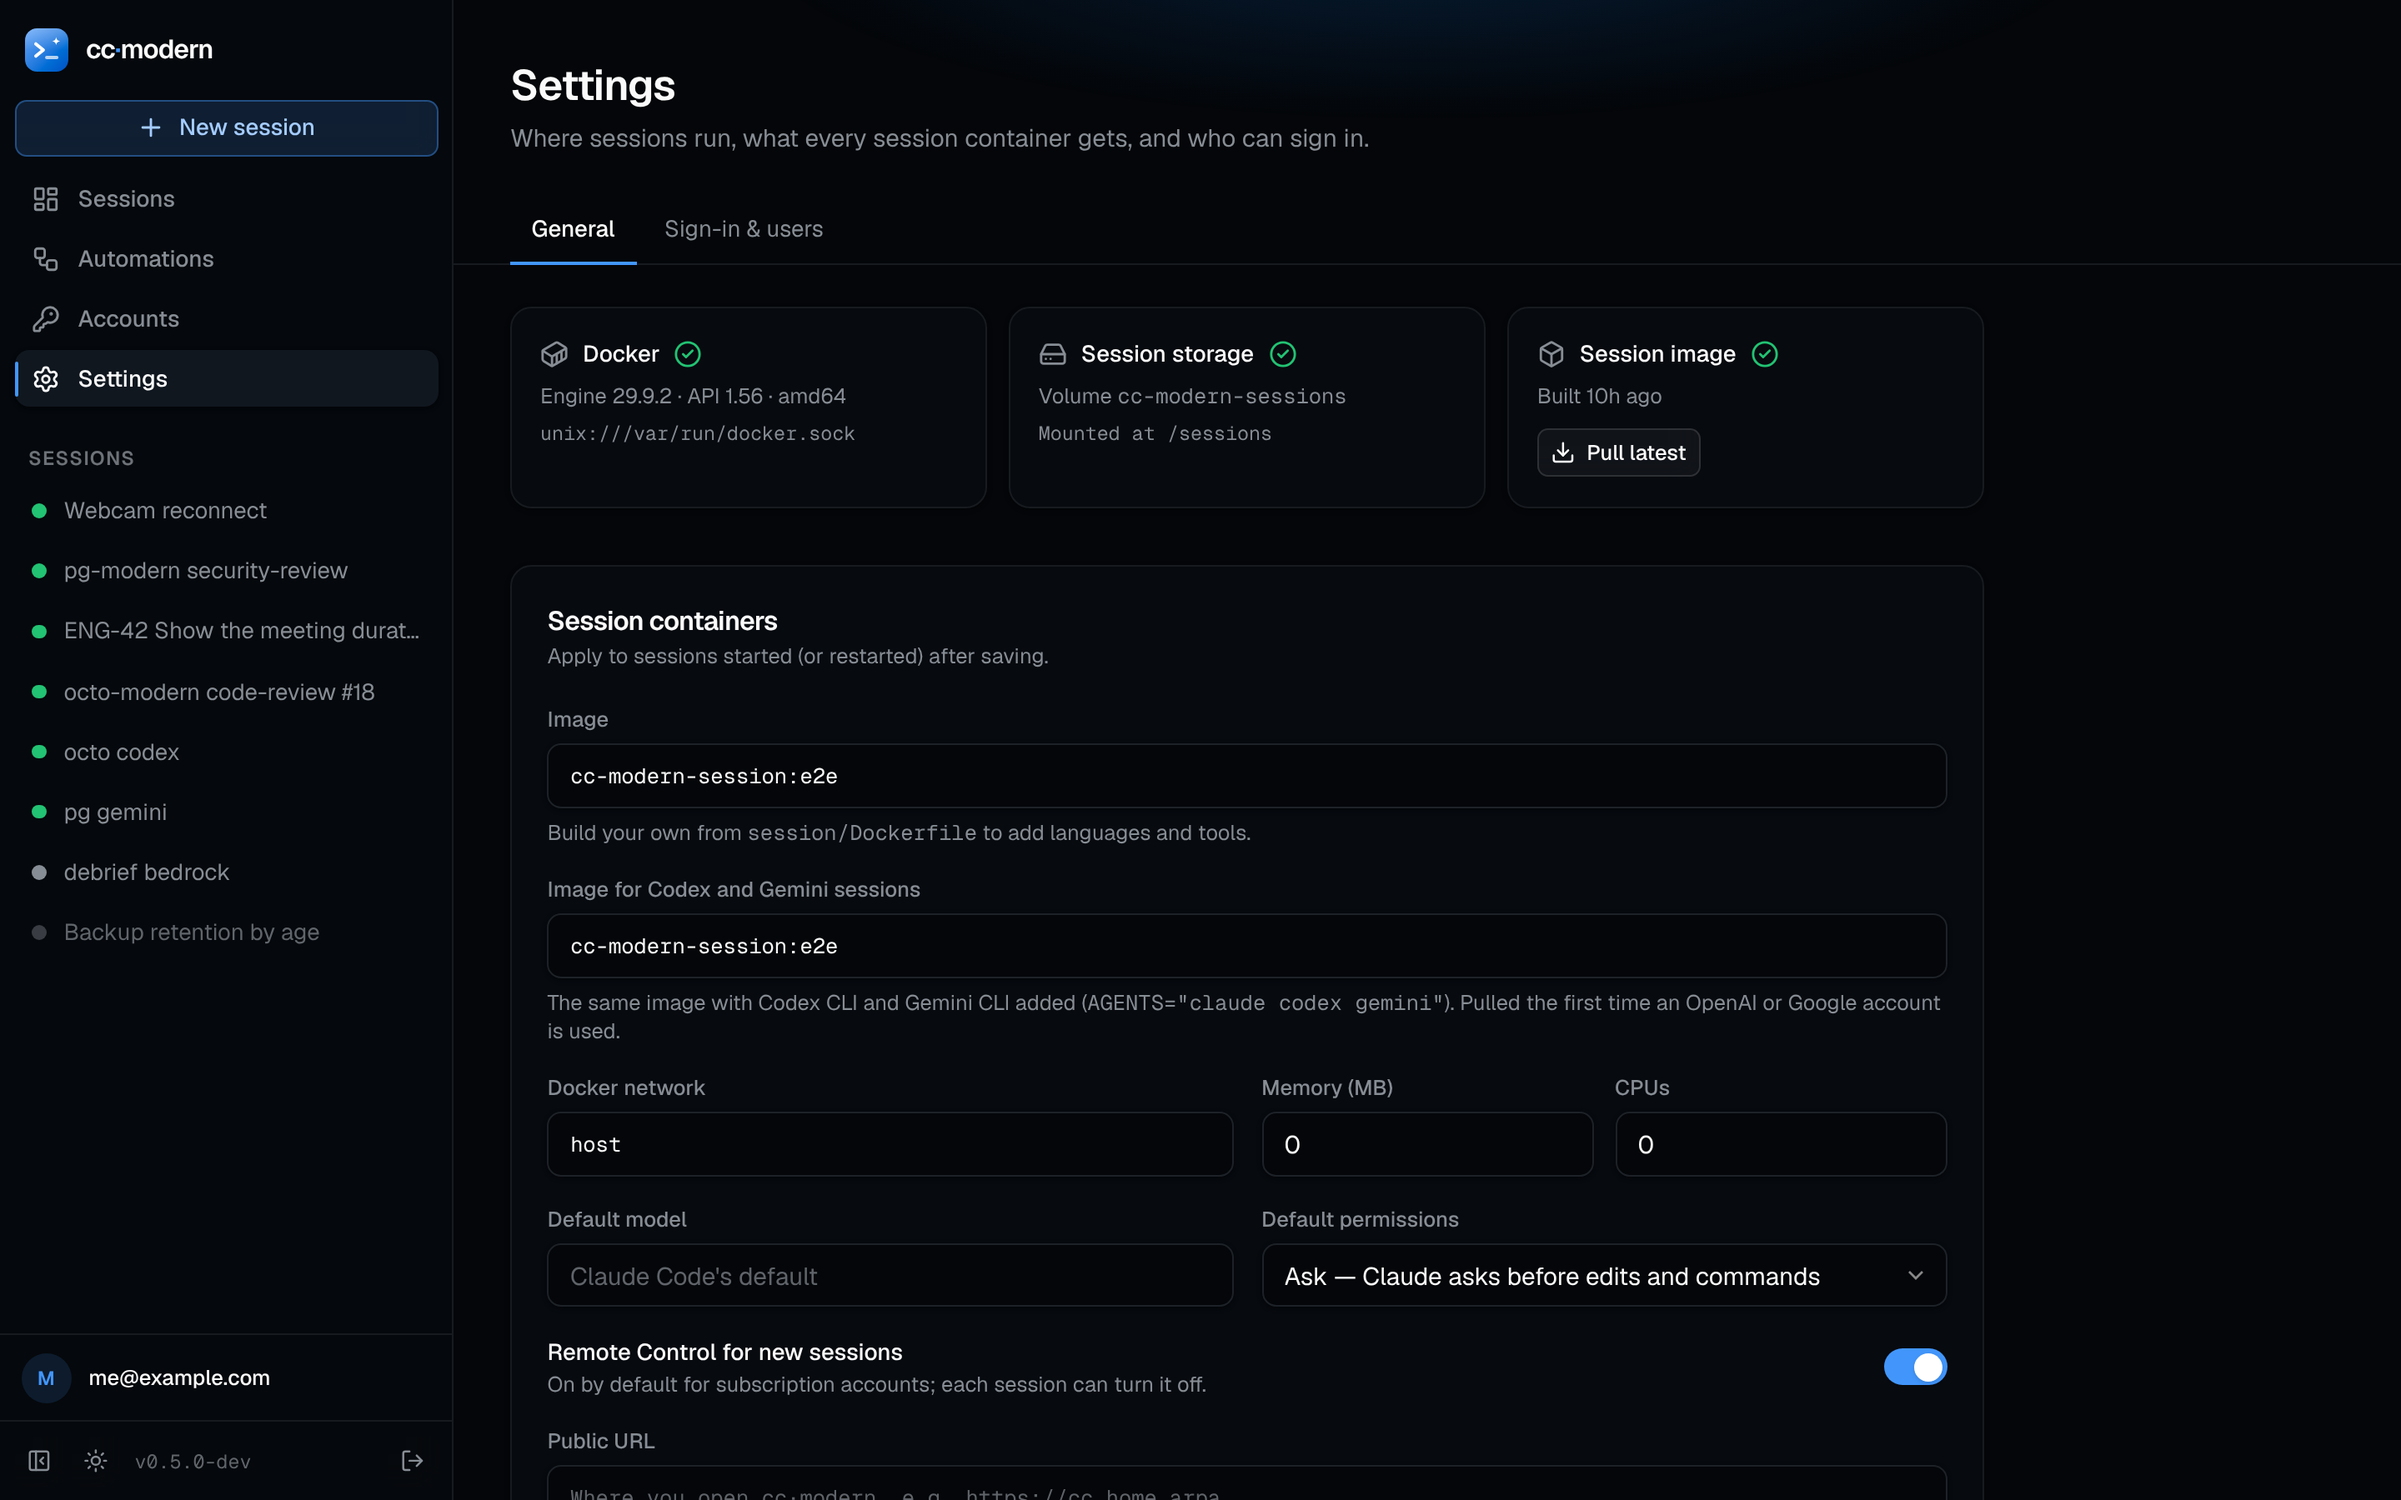
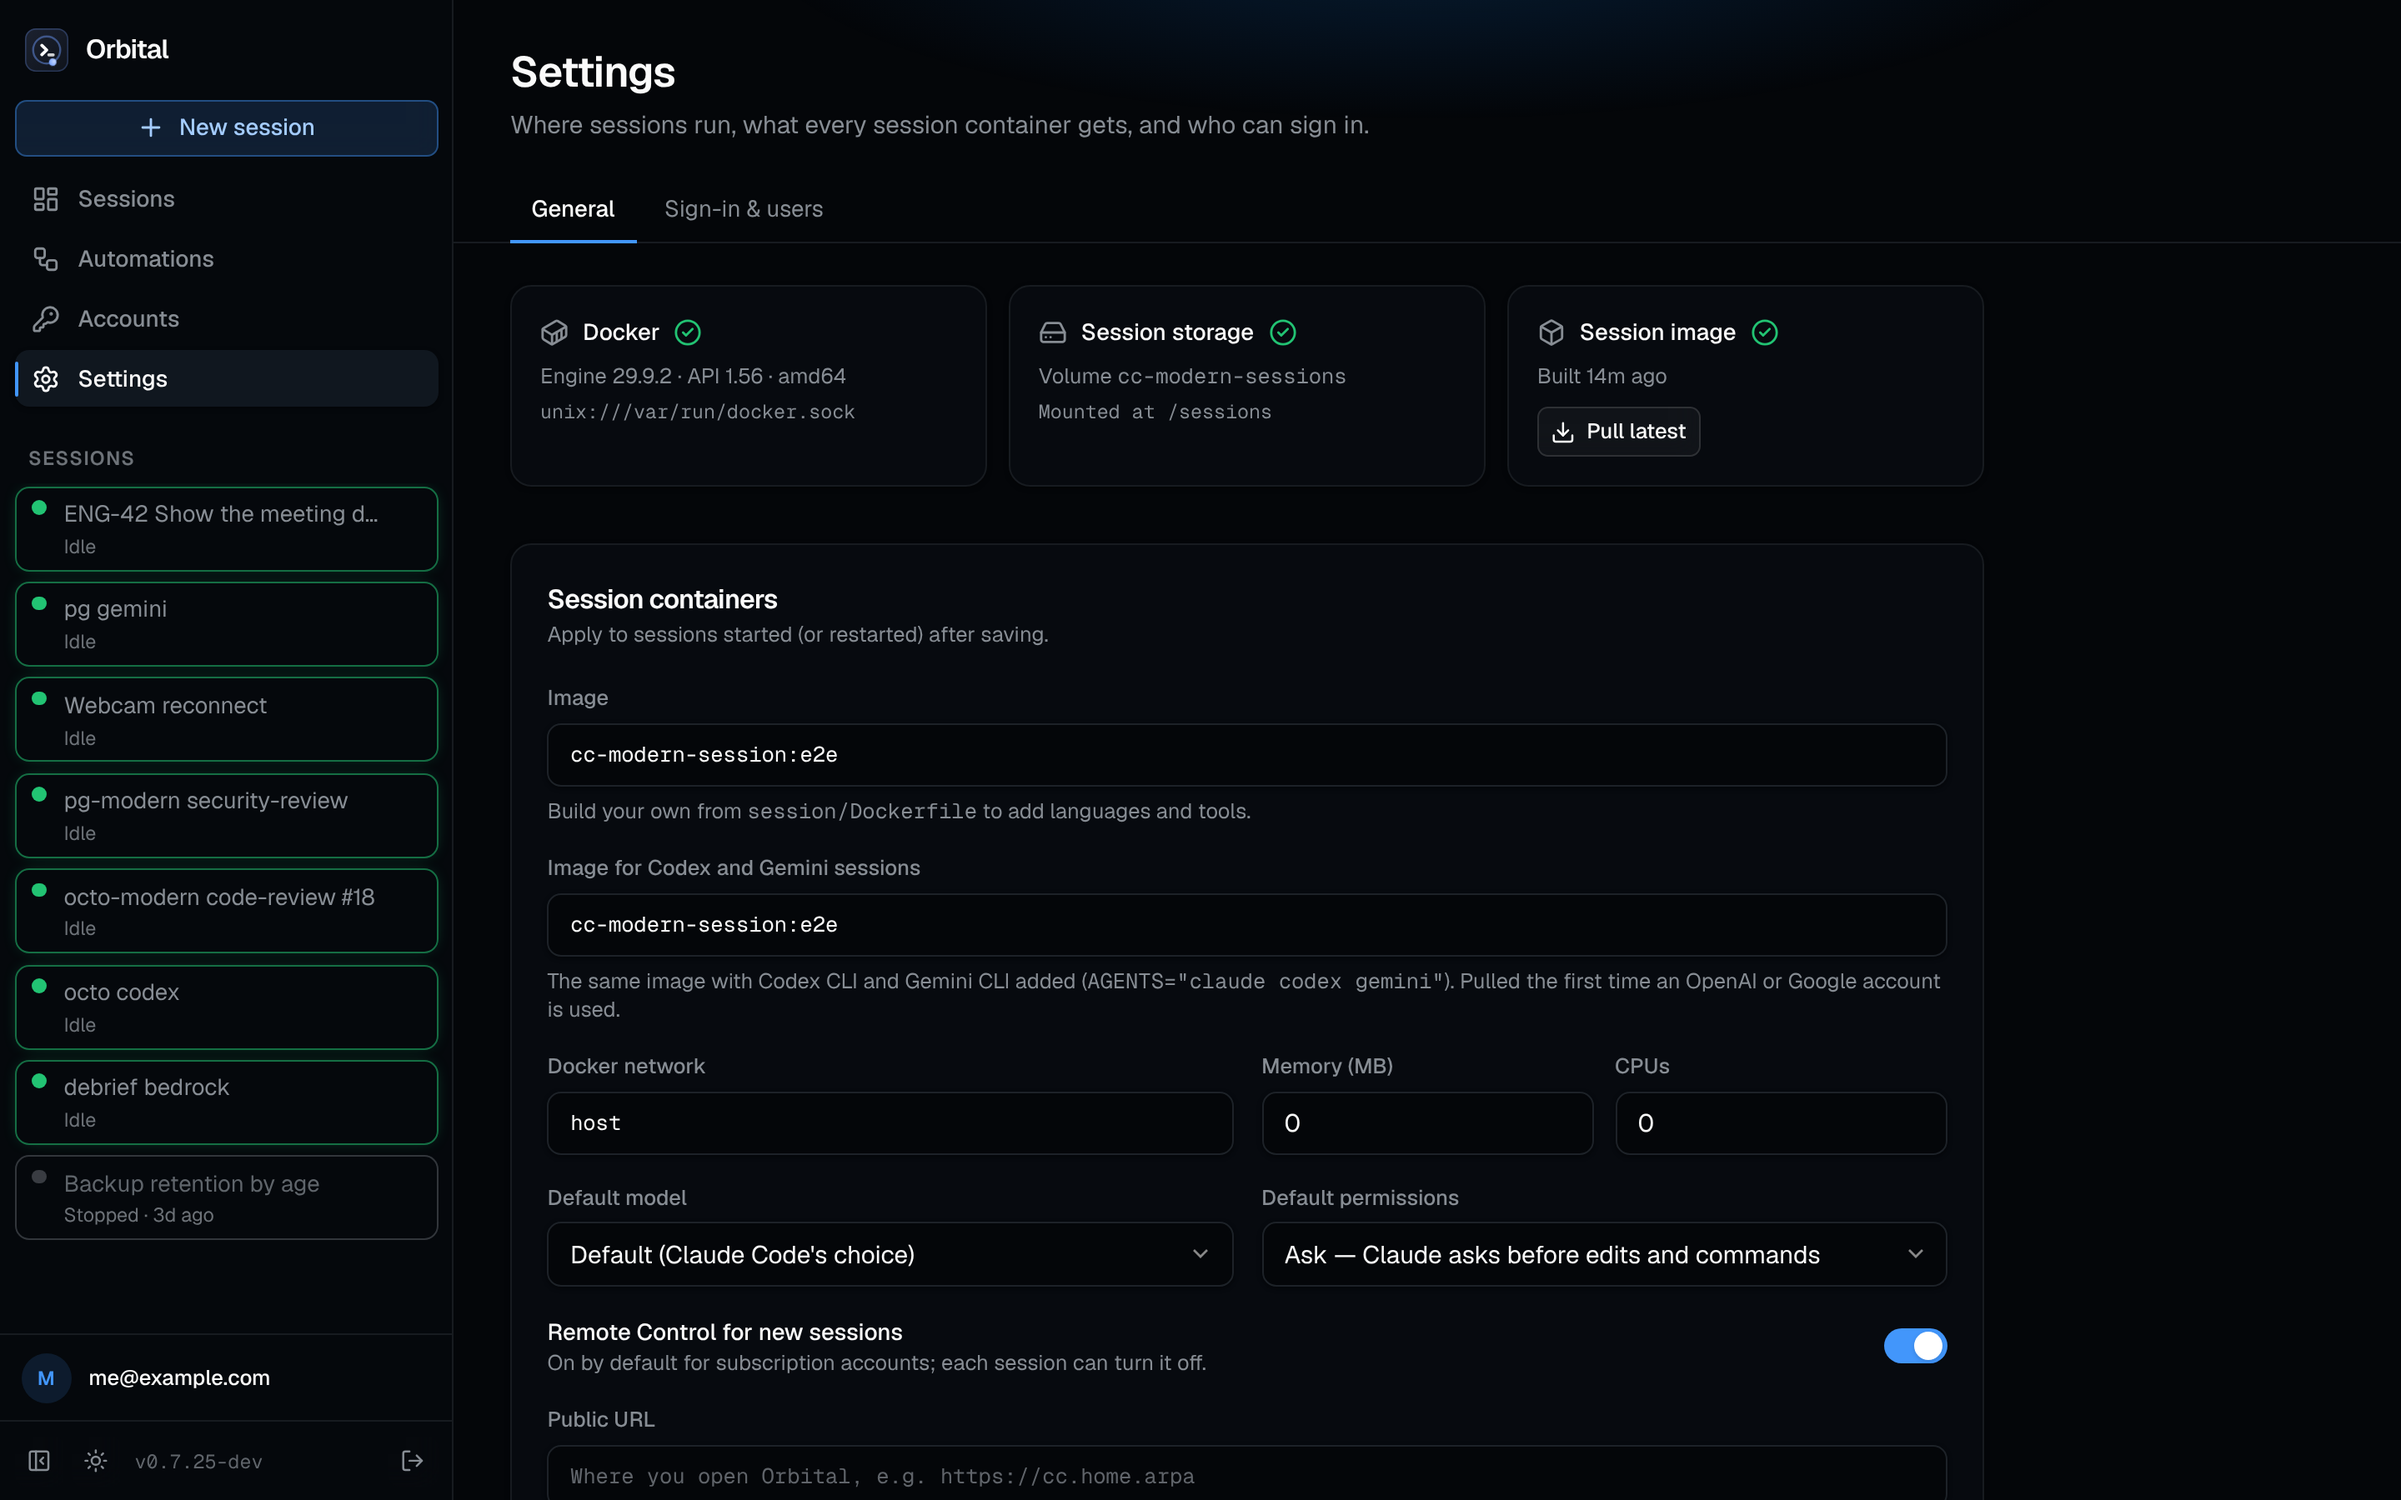
Screenshots of Orbital, and the README on repo-less sessions and token choice
Every screenshot retaken from the current build with the demo data (the
old ones still said cc·modern and v0.5.0), plus New session without a
repo. The README mentions starting without a repo and how New session
picks the GitHub token.

Claude-Session: https://claude.ai/code/session_01C997C8JX2S46x9hvY6hSte

diff --git a/README.md b/README.md
@@ -18,7 +18,7 @@
 
 ## Features
 
-- **One container per session**: Orbital clones the repo (optionally onto a new branch) into a fresh container named `claude-<repo>` (`claude-<repo>-2`, `-3`… for more sessions on the same repo) and starts Claude Code there, with the name you gave it. All sessions share one image; repos, home folders and conversations live in a volume, so containers are disposable and nothing is rebuilt per project.
+- **One container per session**: Orbital clones the repo (optionally onto a new branch) into a fresh container named `claude-<repo>` (`claude-<repo>-2`, `-3`… for more sessions on the same repo) and starts Claude Code there, with the name you gave it. For a new project, start without a repo: the session gets an empty folder with git ready, and the agent can put it on GitHub with `gh repo create`. All sessions share one image; repos, home folders and conversations live in a volume, so containers are disposable and nothing is rebuilt per project.
 - **Terminals in the browser**: open any session as a full terminal (xterm.js over a WebSocket). Claude runs inside tmux, so closing the tab doesn't stop it, and several browsers can watch the same session. A **Shell** tab opens a second terminal in the same container. You type straight into the terminal, and scroll it with the wheel or a finger; on phones, a key bar adds Esc, Tab, ⇧Tab, arrows, Ctrl+C, End and Enter. When the agent asks something (a permission prompt, a question with options), the options show above the terminal as buttons. Links on screen, even long sign-in links that wrap over many lines, show above the terminal with Open and Copy buttons.
 - **Live overview**: every session shows whether Claude is *working*, *needs you* (a permission prompt or question), is *idle*, or has exited, plus the last prompt and reply, the task list, the tool it's running, git changes and the last lines of its screen. Sessions that need you sort to the top and get a quick-reply box. **Summarize** asks a small model for a three-sentence summary, using the session's own Claude account.
 - **Stop, resume, relaunch**: stopping removes the container and keeps everything else. Starting again picks up the newest conversation (`claude --continue`); you can also resume any earlier conversation or start a fresh one, and restart Claude inside a running session.
@@ -28,7 +28,7 @@
 - **Remote Control**: sessions on a Claude subscription start with `--remote-control "<name>"`, so they also show up at claude.ai/code and in the Claude app, under the session's name. The overview links straight to them.
 - **Model accounts**: sign in with a Claude Pro or Max plan in a terminal right in the browser (`claude auth login`), or add a long-lived token or an API key; run Claude on **Amazon Bedrock**, **Google Vertex AI**, **Microsoft Foundry** or an **LLM gateway** (LiteLLM, Portkey…); or use **OpenAI** (ChatGPT plan or API key) through Codex CLI and **Google** (Google account or Gemini API key) through Gemini CLI, in the same containers and terminals. Sessions of one account share its login, settings and memory, like terminals on one machine.
 - **Profiles**: say which repos go to which model: `acme/*` on Bedrock with Opus, `me/side-*` on Codex, everything else on your subscription. New sessions pick the matching profile's account, model and permissions (you can still change them), and Linear rules can use it too.
-- **GitHub accounts and orgs**: add personal access tokens, as many as you like and each with a name ("Acme org", "Read-only"), or sign in with GitHub through your own OAuth app. Rename a token or swap in a new one when it expires, without touching the sessions and automations that use it. Browse every repo the token can see across your account and organizations, pick a branch. Sessions get the token for `git push` and `gh pr create`, and commit under your GitHub noreply address.
+- **GitHub accounts and orgs**: add personal access tokens, as many as you like and each with a name ("Acme org", "Read-only"), or sign in with GitHub through your own OAuth app. Rename a token or swap in a new one when it expires, without touching the sessions and automations that use it. Browse every repo your tokens can see across your account and organizations, and pick a branch; New session uses the token that can open the repo (the stricter one when several can, which you can change). Sessions get the token for `git push` and `gh pr create`, and commit under your GitHub noreply address.
 - **Sign-in your way**: a local admin account, plus single sign-on with any OpenID Connect provider (Authentik, Authelia, Keycloak, Pocket ID…), or your reverse proxy's forward auth, with email and group rules and admin/member roles. Or turn sign-in off behind a proxy that already does it. All set in the UI.
 - **Encrypted storage**: tokens and keys are sealed with AES-256-GCM and never sent back to the browser.
 - **Command palette**: `⌘K` (`Ctrl+K`) jumps to any session or page.
@@ -85,7 +85,7 @@ Open `http://<your-host>:3050` and create the local admin account. Everything el
 
 1. **Accounts → Models → Add account.** Pick *Claude subscription* and sign in in the terminal that opens: open the link, approve, paste the code back. (Or a token, an API key, a cloud provider, OpenAI or Google.)
 2. **Accounts → GitHub → Add a token**, for private repos and pushing. Public repos work without one.
-3. **New session**: pick the repo, optionally a branch to start from and a new branch to work on, a first message, the model and the permission mode. **Start session** opens its terminal.
+3. **New session**: pick the repo (or start without one), optionally a branch to start from and a new branch to work on, a first message, the model and the permission mode. **Start session** opens its terminal.
 
 The first start pulls the session image (`ghcr.io/vitafortis/orbital-session`), which takes a minute. To put it behind single sign-on or your reverse proxy's login, see [Sign-in](#sign-in).
 

diff --git a/docs/screenshots/README.md b/docs/screenshots/README.md
@@ -17,7 +17,7 @@ Every screen of Orbital, from a test install with demo data: the conversations, 
 | | |
 | --- | --- |
 | ![New session](new.png) **New session** | ![Profile matched](new-profile.png) **A profile** picked the account, model and permissions for the repo |
-| ![Skill session](new-skill.png) **Run a skill** on a pull request | |
+| ![Skill session](new-skill.png) **Run a skill** on a pull request | ![Without a repo](new-norepo.png) **Without a repo**: an empty folder for a new project |
 
 ## Accounts and profiles
 
